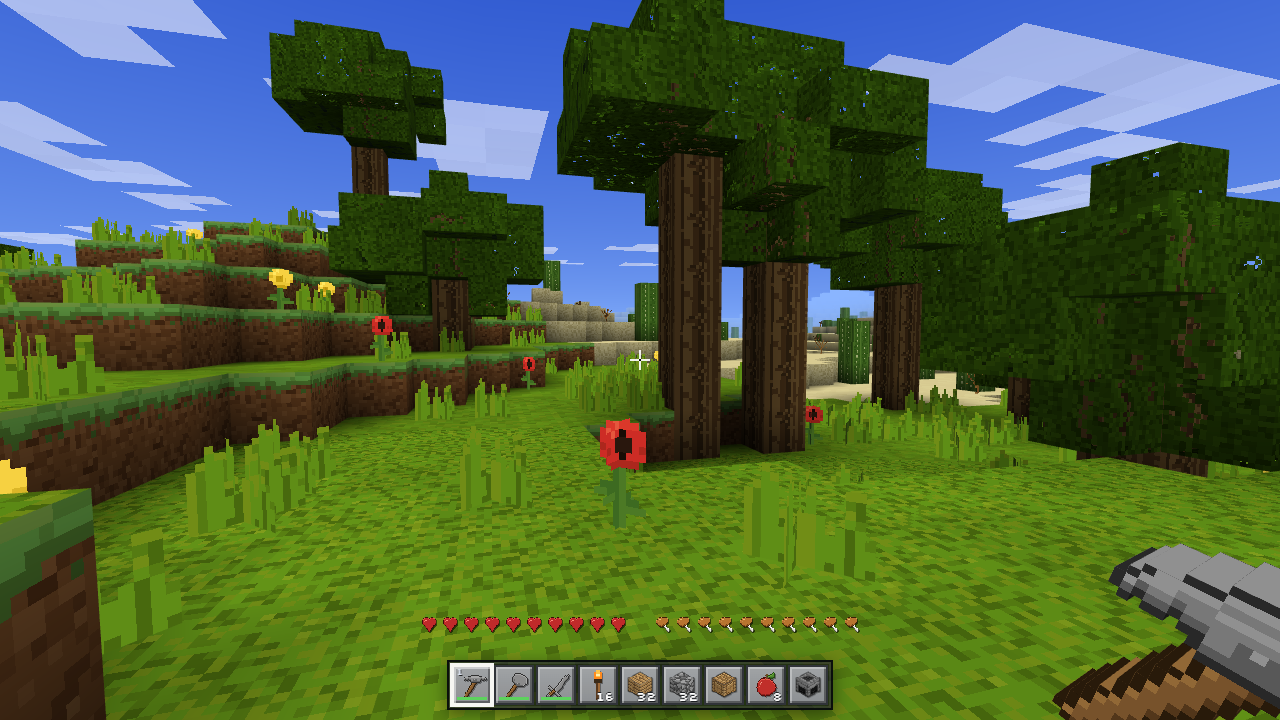
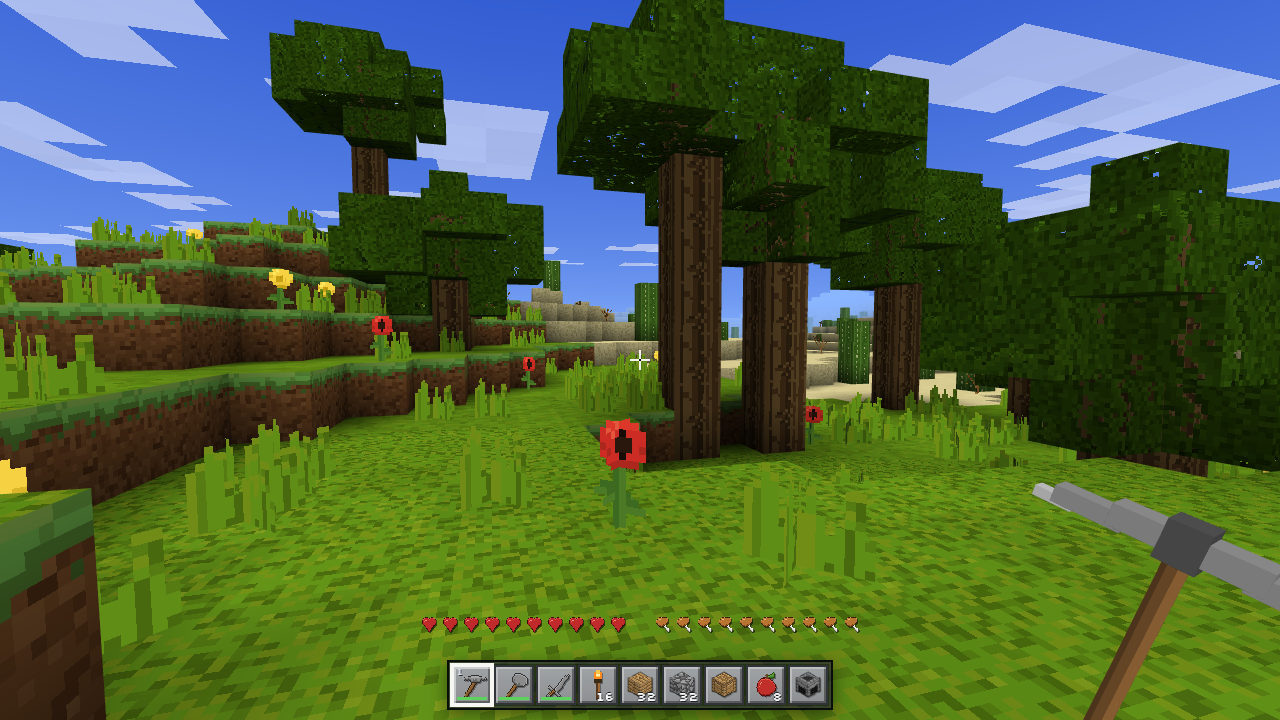
feat: true 3D first-person tool models (pickaxe/axe/shovel/sword) with tier palettes

Changed region(s): [[0.8125, 0.6722, 1.0, 1.0]]

diff --git a/src/render/heldTool.ts b/src/render/heldTool.ts
@@ -1,0 +1,194 @@
+import * as THREE from 'three';
+import { getItem } from '../world/items';
+
+/**
+ * True 3D first-person models for the four vanilla tool families.
+ *
+ * The extruded-sprite path is fine for food/materials, but tools read as flat
+ * cards when viewed head-on. These models are built from boxes/prisms with a
+ * real handle, head, guard and per-face shading. They keep the same grip
+ * convention as the other held items: the handle passes through the local
+ * origin and the head points up (+Y), so the category pose/tilt still applies.
+ */
+
+export interface HeldToolModel {
+  geometry: THREE.BufferGeometry;
+  /** Local model scale applied by FirstPersonHand. */
+  scale: number;
+}
+
+type Rgb = [number, number, number];
+
+const WOOD: Rgb = [0.54, 0.37, 0.2];
+const WOOD_LIGHT: Rgb = [0.68, 0.49, 0.28];
+const WOOD_DARK: Rgb = [0.35, 0.23, 0.12];
+
+const TIER_COLORS: Record<string, { base: Rgb; light: Rgb; dark: Rgb }> = {
+  wooden: { base: [0.62, 0.43, 0.23], light: [0.78, 0.57, 0.32], dark: [0.4, 0.27, 0.13] },
+  stone: { base: [0.53, 0.53, 0.53], light: [0.72, 0.72, 0.72], dark: [0.3, 0.3, 0.3] },
+  iron: { base: [0.78, 0.78, 0.8], light: [0.94, 0.94, 0.97], dark: [0.46, 0.46, 0.5] },
+  golden: { base: [0.9, 0.72, 0.22], light: [1.0, 0.9, 0.45], dark: [0.58, 0.42, 0.08] },
+  diamond: { base: [0.4, 0.88, 0.84], light: [0.7, 1.0, 0.98], dark: [0.15, 0.55, 0.52] },
+};
+
+const FACE_SHADE = [0.82, 0.7, 1.0, 0.55, 0.9, 0.65];
+
+interface Buffers {
+  positions: number[];
+  colors: number[];
+  indices: number[];
+}
+
+function scaleColor(color: Rgb, factor: number): Rgb {
+  return [
+    Math.min(1, color[0] * factor),
+    Math.min(1, color[1] * factor),
+    Math.min(1, color[2] * factor),
+  ];
+}
+
+function pushQuad(
+  buffers: Buffers,
+  corners: readonly [number, number, number][],
+  color: Rgb,
+): void {
+  const base = buffers.positions.length / 3;
+  for (const corner of corners) {
+    buffers.positions.push(corner[0], corner[1], corner[2]);
+    buffers.colors.push(color[0], color[1], color[2]);
+  }
+  buffers.indices.push(base, base + 1, base + 2, base, base + 2, base + 3);
+}
+
+/** Axis-aligned box; `rotationZ` rotates around its own centre. */
+function pushBox(
+  buffers: Buffers,
+  center: [number, number, number],
+  size: [number, number, number],
+  color: Rgb,
+): void {
+  const [cx, cy, cz] = center;
+  const [w, h, d] = size;
+  const x0 = cx - w / 2;
+  const x1 = cx + w / 2;
+  const y0 = cy - h / 2;
+  const y1 = cy + h / 2;
+  const z0 = cz - d / 2;
+  const z1 = cz + d / 2;
+  const faces: Array<[Rgb, [number, number, number][]]> = [
+    [scaleColor(color, FACE_SHADE[0]), [[x1, y0, z1], [x1, y1, z1], [x1, y1, z0], [x1, y0, z0]]],
+    [scaleColor(color, FACE_SHADE[1]), [[x0, y0, z0], [x0, y1, z0], [x0, y1, z1], [x0, y0, z1]]],
+    [scaleColor(color, FACE_SHADE[2]), [[x0, y1, z1], [x1, y1, z1], [x1, y1, z0], [x0, y1, z0]]],
+    [scaleColor(color, FACE_SHADE[3]), [[x0, y0, z0], [x1, y0, z0], [x1, y0, z1], [x0, y0, z1]]],
+    [scaleColor(color, FACE_SHADE[4]), [[x0, y0, z1], [x1, y0, z1], [x1, y1, z1], [x0, y1, z1]]],
+    [scaleColor(color, FACE_SHADE[5]), [[x1, y0, z0], [x0, y0, z0], [x0, y1, z0], [x1, y1, z0]]],
+  ];
+  for (const [tint, corners] of faces) pushQuad(buffers, corners, tint);
+}
+
+/** Octagonal prism along Y, used for the wooden handle. */
+function pushPrismY(
+  buffers: Buffers,
+  radius: number,
+  y0: number,
+  y1: number,
+  color: Rgb,
+): void {
+  const segments = 8;
+  const ring = (y: number): Array<[number, number, number]> =>
+    Array.from({ length: segments }, (_unused, i) => {
+      const angle = (i / segments) * Math.PI * 2 + Math.PI / 8;
+      return [Math.cos(angle) * radius, y, Math.sin(angle) * radius];
+    });
+  const lower = ring(y0);
+  const upper = ring(y1);
+  for (let i = 0; i < segments; i++) {
+    const next = (i + 1) % segments;
+    const tint = scaleColor(color, 0.55 + 0.45 * Math.max(0, Math.cos((i / segments) * Math.PI * 2 + Math.PI / 8)));
+    pushQuad(buffers, [lower[i], lower[next], upper[next], upper[i]], tint);
+  }
+  // caps
+  for (let i = 1; i < segments - 1; i++) {
+    pushQuad(buffers, [lower[0], lower[i + 1], lower[i], lower[0]], scaleColor(color, 0.45));
+    pushQuad(buffers, [upper[0], upper[i], upper[i + 1], upper[0]], scaleColor(color, 0.9));
+  }
+}
+
+/** Tapered box along Y (w/d at y0 and y1). */
+function pushTaperedBoxY(
+  buffers: Buffers,
+  y0: number,
+  y1: number,
+  w0: number,
+  d0: number,
+  w1: number,
+  d1: number,
+  color: Rgb,
+): void {
+  const a = (sx: number, sz: number): [number, number, number] => [sx * w0 / 2, y0, sz * d0 / 2];
+  const b = (sx: number, sz: number): [number, number, number] => [sx * w1 / 2, y1, sz * d1 / 2];
+  const faces: Array<[Rgb, [number, number, number][]]> = [
+    [scaleColor(color, FACE_SHADE[0]), [a(1, -1), b(1, -1), b(1, 1), a(1, 1)]],
+    [scaleColor(color, FACE_SHADE[1]), [a(-1, 1), b(-1, 1), b(-1, -1), a(-1, -1)]],
+    [scaleColor(color, FACE_SHADE[4]), [a(-1, 1), a(1, 1), b(1, 1), b(-1, 1)]],
+    [scaleColor(color, FACE_SHADE[5]), [a(1, -1), a(-1, -1), b(-1, -1), b(1, -1)]],
+    [scaleColor(color, FACE_SHADE[2]), [b(-1, -1), b(1, -1), b(1, 1), b(-1, 1)]],
+    [scaleColor(color, FACE_SHADE[3]), [a(-1, -1), a(-1, 1), a(1, 1), a(1, -1)]],
+  ];
+  for (const [tint, corners] of faces) pushQuad(buffers, corners, tint);
+}
+
+function makeGeometry(buffers: Buffers, scale: number): HeldToolModel {
+  const geometry = new THREE.BufferGeometry();
+  geometry.setAttribute('position', new THREE.Float32BufferAttribute(buffers.positions, 3));
+  geometry.setAttribute('color', new THREE.Float32BufferAttribute(buffers.colors, 3));
+  geometry.setIndex(buffers.indices);
+  geometry.computeBoundingSphere();
+  return { geometry, scale };
+}
+
+/** Builds a real 3D model for pickaxe/axe/shovel/sword items, or null. */
+export function buildHeldToolModel(itemId: string): HeldToolModel | null {
+  const item = getItem(itemId);
+  const type = item?.tool?.type;
+  if (!type || !['pickaxe', 'axe', 'shovel', 'sword'].includes(type)) return null;
+  const prefix = itemId.split('_')[0];
+  const palette = TIER_COLORS[prefix] ?? TIER_COLORS.iron;
+  const buffers: Buffers = { positions: [], colors: [], indices: [] };
+
+  if (type === 'sword') {
+    pushPrismY(buffers, 0.028, -0.16, 0.08, WOOD_DARK);
+    pushBox(buffers, [0, 0.075, 0], [0.24, 0.035, 0.055], palette.dark);
+    pushTaperedBoxY(buffers, 0.09, 0.82, 0.075, 0.024, 0.008, 0.012, palette.base);
+    // bright edge strip
+    pushBox(buffers, [0.038, 0.44, 0], [0.012, 0.68, 0.018], palette.light);
+    pushBox(buffers, [0, -0.18, 0], [0.07, 0.035, 0.07], palette.dark);
+    return makeGeometry(buffers, 0.42);
+  }
+
+  // Pickaxe / axe / shovel share the wooden handle, with a head near +Y.
+  pushPrismY(buffers, 0.032, -0.18, 0.62, WOOD);
+  pushPrismY(buffers, 0.026, -0.02, 0.2, WOOD_LIGHT);
+
+  if (type === 'pickaxe') {
+    pushBox(buffers, [0, 0.63, 0], [0.36, 0.08, 0.09], palette.base);
+    pushBox(buffers, [0, 0.63, 0], [0.1, 0.14, 0.1], palette.dark);
+    // two pointed tips, angled down slightly
+    pushBox(buffers, [-0.24, 0.61, 0], [0.2, 0.065, 0.075], palette.base);
+    pushBox(buffers, [0.24, 0.61, 0], [0.2, 0.065, 0.075], palette.base);
+    pushBox(buffers, [-0.34, 0.585, 0], [0.12, 0.04, 0.05], palette.light);
+    pushBox(buffers, [0.34, 0.585, 0], [0.12, 0.04, 0.05], palette.light);
+  } else if (type === 'axe') {
+    pushBox(buffers, [0, 0.6, 0], [0.18, 0.16, 0.1], palette.base);
+    pushTaperedBoxY(buffers, 0.52, 0.72, 0.1, 0.08, 0.3, 0.06, palette.base);
+    pushBox(buffers, [0.16, 0.62, 0], [0.06, 0.2, 0.06], palette.light);
+    pushBox(buffers, [0, 0.6, 0], [0.08, 0.08, 0.1], palette.dark);
+  } else {
+    // shovel: wide flat spade blade
+    pushTaperedBoxY(buffers, 0.45, 0.72, 0.14, 0.07, 0.28, 0.045, palette.base);
+    pushBox(buffers, [0, 0.47, 0], [0.16, 0.06, 0.07], palette.dark);
+    pushBox(buffers, [0, 0.7, 0], [0.18, 0.03, 0.035], palette.light);
+  }
+
+  return makeGeometry(buffers, 0.4);
+}

diff --git a/src/render/firstPerson.ts b/src/render/firstPerson.ts
@@ -29,6 +29,7 @@ import { blockNumeric, faceTexture, getBlockDef, type BlockDef } from '../world/
 import { getItem, type ItemDef } from '../world/items';
 import type { TextureAtlas } from './atlas';
 import { HeldItemGeometryCache, heldCategory, type HeldCategory } from './heldItem';
+import { buildHeldToolModel } from './heldTool';
 
 export type HandSwingKind = 'attack' | 'place';
 
@@ -346,6 +347,7 @@ export class FirstPersonHand {
   private readonly blockMaterial: THREE.ShaderMaterial;
   private readonly spriteMaterial: THREE.ShaderMaterial | null;
   private readonly fallbackMaterial: THREE.MeshBasicMaterial;
+  private readonly toolMaterial: THREE.MeshBasicMaterial;
   private readonly handRoot = new THREE.Group();
   private readonly itemCache = new HeldItemGeometryCache();
   private itemRoot: THREE.Group | null = null;
@@ -376,6 +378,10 @@ export class FirstPersonHand {
       : null;
     if (this.spriteMaterial && options.itemLayerOf) this.itemLayerOf = options.itemLayerOf;
     this.fallbackMaterial = new THREE.MeshBasicMaterial({ color: 0x9a9a9a });
+    this.toolMaterial = new THREE.MeshBasicMaterial({
+      vertexColors: true,
+      side: THREE.DoubleSide,
+    });
 
     this.scene.add(this.handRoot);
     this.setItem(null);
@@ -413,6 +419,7 @@ export class FirstPersonHand {
     let geometry: THREE.BufferGeometry | null = null;
     let material: THREE.Material = this.fallbackMaterial;
     let scale = 1;
+    let toolScale: number | null = null;
     let grip: Vec3Tuple = [0, 0, 0];
     let kind: HandItemKind = 'fallback';
     let owned = true;
@@ -424,15 +431,23 @@ export class FirstPersonHand {
       scale = HAND_SCALES.block;
       grip = [0.24, -0.28, 0.18];
       kind = 'block';
-    } else if (this.spriteMaterial && this.itemLayerOf) {
-      const extruded = this.itemCache.get(itemId, this.itemLayerOf(itemId));
-      if (extruded) {
-        geometry = extruded.geometry;
-        grip = extruded.grip;
-        scale = HAND_SCALES.sprite;
-        material = this.spriteMaterial;
+    } else {
+      const tool = buildHeldToolModel(itemId);
+      if (tool) {
+        geometry = tool.geometry;
+        material = this.toolMaterial;
+        toolScale = tool.scale;
         kind = 'sprite';
-        owned = false;
+      } else if (this.spriteMaterial && this.itemLayerOf) {
+        const extruded = this.itemCache.get(itemId, this.itemLayerOf(itemId));
+        if (extruded) {
+          geometry = extruded.geometry;
+          grip = extruded.grip;
+          scale = HAND_SCALES.sprite;
+          material = this.spriteMaterial;
+          kind = 'sprite';
+          owned = false;
+        }
       }
     }
 
@@ -449,7 +464,7 @@ export class FirstPersonHand {
     const root = new THREE.Group();
     root.rotation.set(...HELD_ITEM_ROTATIONS[category]);
     const itemMesh = new THREE.Mesh(geometry, material);
-    const drawScale = kind === 'sprite' ? scale * 1.5 : scale;
+    const drawScale = toolScale ?? (kind === 'sprite' ? scale * 1.5 : scale);
     itemMesh.scale.setScalar(drawScale);
     itemMesh.position.set(-grip[0] * drawScale, -grip[1] * drawScale, -grip[2] * drawScale);
     root.add(itemMesh);
@@ -478,6 +493,7 @@ export class FirstPersonHand {
     this.light = Math.max(0.38, Math.min(1.2, daylight));
     this.blockMaterial.uniforms.uLight.value = this.light;
     if (this.spriteMaterial) this.spriteMaterial.uniforms.uLight.value = this.light;
+    this.toolMaterial.color.setScalar(this.light);
   }
 
   get heldItemId(): string | null {
@@ -611,6 +627,7 @@ export class FirstPersonHand {
     this.itemCache.dispose();
     this.blockMaterial.dispose();
     this.spriteMaterial?.dispose();
+    this.toolMaterial.dispose();
     this.fallbackMaterial.dispose();
     this.scene.clear();
   }

diff --git a/tests/render/heldTool.test.ts b/tests/render/heldTool.test.ts
@@ -1,0 +1,41 @@
+import { describe, expect, it } from 'vitest';
+import { buildHeldToolModel } from '../../src/render/heldTool';
+
+describe('true 3D held tool models', () => {
+  it('builds volumetric pickaxe/axe/shovel/sword models for all five tiers', () => {
+    const ids = ['wooden', 'stone', 'iron', 'golden', 'diamond'].flatMap((tier) =>
+      ['pickaxe', 'axe', 'shovel', 'sword'].map((kind) => `${tier}_${kind}`),
+    );
+    for (const id of ids) {
+      const model = buildHeldToolModel(id);
+      expect(model, id).not.toBeNull();
+      expect(model!.geometry.getAttribute('position').count, id).toBeGreaterThan(100);
+      expect(model!.geometry.getAttribute('color').count, id).toBeGreaterThan(100);
+      model!.geometry.dispose();
+    }
+  });
+
+  it('keeps the handle/grip near the origin and the head above it', () => {
+    const pickaxe = buildHeldToolModel('diamond_pickaxe')!;
+    pickaxe.geometry.computeBoundingBox();
+    const box = pickaxe.geometry.boundingBox!;
+    expect(box.min.y).toBeLessThan(0);
+    expect(box.max.y).toBeGreaterThan(0.5);
+    expect(box.max.x - box.min.x).toBeGreaterThan(0.3);
+    expect(box.max.z - box.min.z).toBeGreaterThan(0.05);
+    pickaxe.geometry.dispose();
+
+    const sword = buildHeldToolModel('iron_sword')!;
+    sword.geometry.computeBoundingBox();
+    const swordBox = sword.geometry.boundingBox!;
+    expect(swordBox.max.y).toBeGreaterThan(0.6);
+    expect(swordBox.max.x - swordBox.min.x).toBeGreaterThan(0.2);
+    sword.geometry.dispose();
+  });
+
+  it('returns null for non-tool items', () => {
+    expect(buildHeldToolModel('apple')).toBeNull();
+    expect(buildHeldToolModel('oak_planks')).toBeNull();
+    expect(buildHeldToolModel('__not_an_item__')).toBeNull();
+  });
+});

diff --git a/README.md b/README.md
@@ -35,7 +35,7 @@
 ### 玩法
 - 新世界初始补给：9 格全满 —— 石镐/石斧/石剑、16 火把、32 木板、32 圆石、工作台、8 苹果、熔炉（创造模式改为 9 组建筑方块）；URL 加 `?kit=0` 可关闭。
 - **移除空手状态**：第一人称不再渲染空手/手臂模型；数字键/滚轮/使用耗尽后会**自动跳过空槽**选择有物品的槽位。只有 9 格全部为空时才无物品显示（仍可徒手挖掘/攻击）。
-- **第一人称 3D 手持物**：工具/武器/食物按 32×32 图标 alpha 轮廓挤出约 3 个逻辑像素的厚度（正面/背面/侧面），方块有六面明暗；物品以更明显的 3/4 斜握、更厚的挤出和右下角定位呈现，不露出手，不再是漂浮在屏幕中部的平面贴片。
+- **第一人称 3D 手持物**：镐/斧/锹/剑使用真正的实体模型（木质柄、镐头/斧刃/铲头、剑刃/护手/柄），带逐面明暗与木/石/铁/金/钻石材质配色；食物/材料仍用 32×32 图标挤出模型，方块为六面明暗立方体。统一采用右下角 3/4 斜握，不露出手。
 - 生存：生命/饥饿/饱和度/护甲/氧气、摔落/溺水/岩浆/生物伤害、死亡掉落与重生、工具耐久、熔炉、箱子、工作台。
 - 合成：81 条配方（2×2 背包 / 3×3 工作台、有序/无序、自动偏移、不镜像）+ 14 条熔炼配方与燃料表。
 - 创造模式：飞行、无限方块、即时破坏、创造物品栏（分类 + 搜索）。
